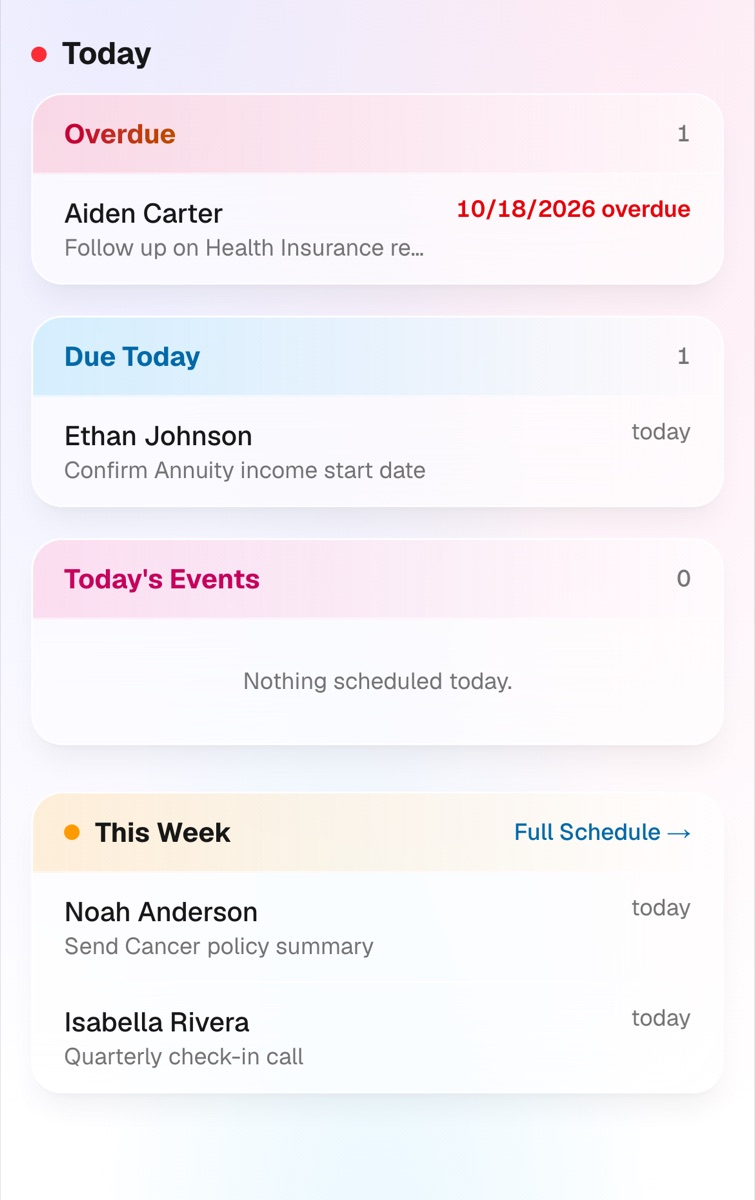
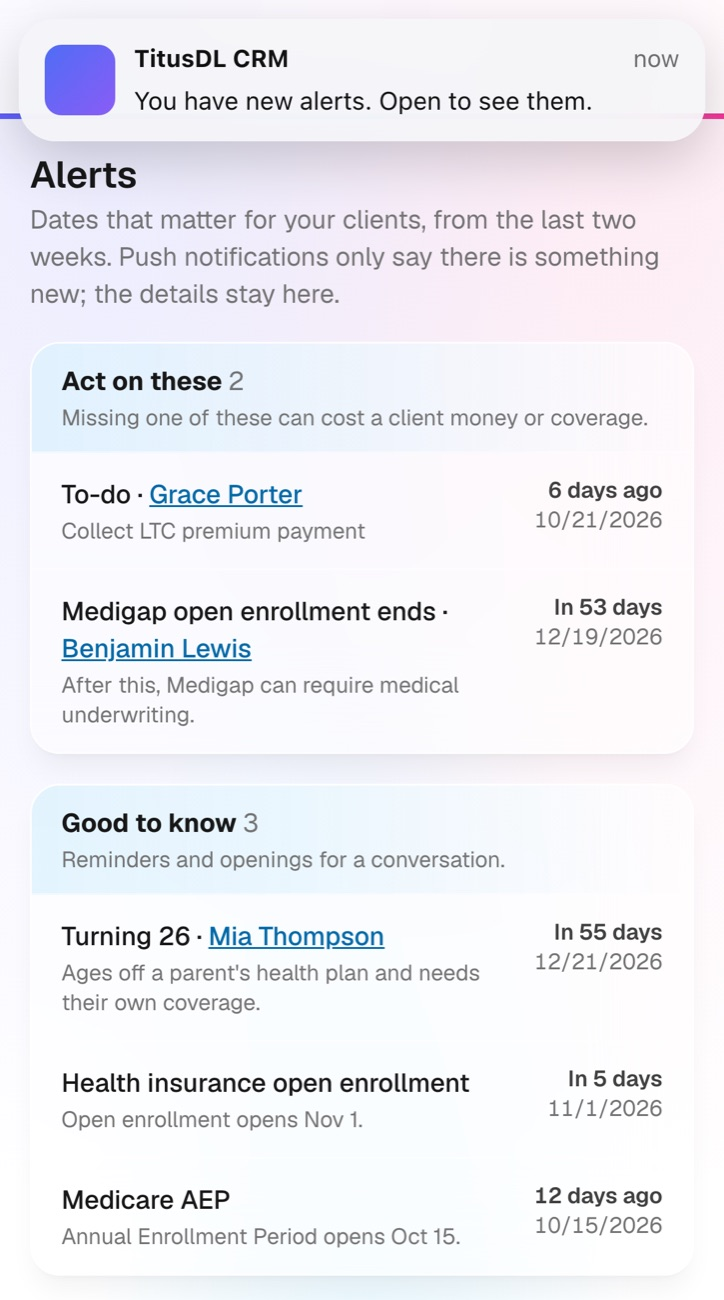
Billing starts at the first issued policy or day 90; alerts are Pro; tax by state; the phone shows the push
- $0 until the first issued policy, capped at 90 days after joining,
  everywhere the offer appears (banner, hero, cards, FAQ, closing panel).
- Early-access price lock is 12 months from the day billing starts.
- Standard has no alerts: dates sit on the calendar and the to-do list.
  Alerts and push are Pro, and the comparison table says so.
- Premium: upload an application and the client, policy and dates update
  automatically. Still Coming soon.
- Sales tax depends on the state (and city). California starts 2027.
- New FAQ: paying yearly, 12 months for the price of 10, offered when
  billing starts.
- Hero phone: the English edition's Alerts screen (sample clients, names
  shown in English) under the push exactly as sw.js words it.

diff --git a/index.html b/index.html
@@ -4,7 +4,7 @@
 <meta charset="UTF-8" />
 <meta name="viewport" content="width=device-width, initial-scale=1.0" />
 <title>TitusDL CRM, the CRM for independent insurance agents</title>
-<meta name="description" content="TitusDL CRM alerts you before the dates that matter: clients turning 65, Medigap open enrollment, RMDs, term life ending, renewals and birthdays. HIPAA BAA included. Pay $0 until your first issued policy." />
+<meta name="description" content="TitusDL CRM alerts you before the dates that matter: clients turning 65, Medigap open enrollment, RMDs, term life ending, renewals and birthdays. HIPAA BAA included. Pay $0 until your first issued policy, for up to 90 days." />
 <meta property="og:title" content="TitusDL CRM, the CRM for independent insurance agents" />
 <meta property="og:description" content="Never miss a renewal. Never lose a family record. One CRM built around how insurance agents actually work." />
 <meta property="og:image" content="https://titusdl.com/assets/og-image.png" />
@@ -486,7 +486,7 @@
   .hero-inner.stacked{grid-template-columns:1fr; text-align:center; gap:48px}
   .hero-inner.stacked .lede,.hero-inner.stacked .tag-row{margin-left:auto; margin-right:auto}
   .hero-inner.stacked .ctas{justify-content:center}
-  .hero-shots{position:relative; max-width:1000px; margin:0 auto; padding-right:120px}
+  .hero-shots{position:relative; max-width:1000px; margin:0 auto; padding-right:120px; padding-top:110px}
   .hero-shots .shot-phone{
     position:absolute; right:0; bottom:-36px; width:210px;
     border-radius:26px; border:6px solid #14161f; overflow:hidden; box-shadow:var(--shadow-lift);
@@ -494,7 +494,7 @@
   }
   .shot-phone img{width:100%; height:auto}
   @media (max-width:760px){
-    .hero-shots{padding-right:0}
+    .hero-shots{padding-right:0; padding-top:0}
     .hero-shots .shot-phone{position:relative; width:46%; margin:-40px 4% 0 auto; bottom:auto}
   }
   .shot-caption{font-size:0.8rem; color:var(--ink-faint); margin-top:52px; text-align:center}
@@ -538,7 +538,7 @@
 
 <a href="#pricing" class="promo-bar">
   <span class="promo-emoji" aria-hidden="true">🎉</span>
-  Early access is open: <strong>$0 until your first issued policy</strong> and <strong class="promo-red">we import your book free</strong>
+  Early access is open: <strong>$0 until your first issued policy</strong> (up to 90 days) and <strong class="promo-red">we import your book free</strong>
   <span class="promo-arrow" aria-hidden="true">→</span>
 </a>
 
@@ -588,7 +588,7 @@
             <a href="mailto:info@titusdl.com" class="btn btn-primary js-book">Book a 15-min demo</a>
             <a href="mailto:info@titusdl.com" class="btn btn-ghost glass js-start">Join early access</a>
           </div>
-          <p class="cta-note">Pay $0 until you write your first policy in it. We import your current book for you.</p>
+          <p class="cta-note">Pay $0 until your first issued policy, for up to 90 days. We import your current book for you.</p>
         </div>
 
         <div class="hero-visual">
@@ -599,11 +599,11 @@
                    alt="The CRM's Today screen: an overdue health-insurance renewal follow-up, an annuity task due today, and this week's follow-ups" />
             </div>
             <div class="shot-phone">
-              <img src="assets/product/mobile.jpg" width="755" height="1200"
-                   alt="The same Today screen on a phone" />
+              <img src="assets/product/mobile.jpg" width="724" height="1300"
+                   alt="A push notification reading 'You have new alerts. Open to see them.' over the Alerts screen: a Medigap open enrollment ending and a client turning 26" />
             </div>
           </div>
-          <p class="shot-caption">The real product. Every client shown is sample data.</p>
+          <p class="shot-caption">The real product with sample clients. On the phone: the Alerts screen, and the push exactly as it appears.</p>
         </div>
       </div>
     </div>
@@ -710,7 +710,7 @@
       <div class="section-head center">
         <span class="eyebrow">Alerts that know insurance</span>
         <h2>It tracks the dates a spreadsheet can't</h2>
-        <p>Each alert is worked out from what's already on file and arrives ahead of the date, on your Alerts screen and as a push to your phone.</p>
+        <p>Each alert is worked out from what's already on file and arrives ahead of the date, on your Alerts screen and as a push to your phone. Alerts and push come with Pro.</p>
       </div>
       <div class="alert-grid">
         <div class="alert-card glass"><span class="alert-when">3 months ahead</span><h3>Turning 65</h3><p>Start the Medicare conversation before another agent does.</p></div>
@@ -811,7 +811,7 @@
             <tr>
               <td>Know who turns 65 soon</td>
               <td class="no">Work it out by hand</td>
-              <td class="yes our-col">Alert 3 months ahead</td>
+              <td class="yes our-col">Alert 3 months ahead (Pro)</td>
             </tr>
             <tr>
               <td>Catch a renewal in time</td>
@@ -826,7 +826,7 @@
             <tr>
               <td>Hear about a date before it passes</td>
               <td class="no">Only if you open the file</td>
-              <td class="yes our-col">Push alert on your phone</td>
+              <td class="yes our-col">Push alert on your phone (Pro)</td>
             </tr>
             <tr>
               <td>Keep client data private</td>
@@ -920,6 +920,7 @@
       <div class="section-head center">
         <span class="eyebrow">Early-access pricing</span>
         <h2>Pay nothing until your first policy is issued</h2>
+        <p>Billing starts when your first new policy is issued or 90 days after you join, whichever comes first.</p>
       </div>
       <p class="pricing-lede">Standard: <strong>you have to remember.</strong> Pro: <strong>it reaches out first.</strong> Premium: <strong>it fills itself in.</strong></p>
       <div class="pricing-grid">
@@ -928,13 +929,14 @@
           <span class="launch-ribbon">Launch special</span>
           <div class="price-was"><s aria-label="Regular price $49.99">$49.99</s><span class="price-save">Save 20%</span></div>
           <div class="amount sale">$39.99 <span>/ user / month</span></div>
-          <p class="price-ends">$0 until your first issued policy · Join by Dec 31, 2026<span class="js-days-left"></span></p>
+          <p class="price-ends">$0 until your first issued policy (up to 90 days) · Join by Dec 31, 2026<span class="js-days-left"></span></p>
           <ul>
             <li><span class="check" aria-hidden="true">✓</span> All 8 product lines</li>
             <li><span class="check" aria-hidden="true">✓</span> Family & joint policy linking</li>
-            <li><span class="check" aria-hidden="true">✓</span> Renewal, RMD & Medicare-65 dates, automatic</li>
-            <li><span class="check" aria-hidden="true">✓</span> Recurring to-dos</li>
+            <li><span class="check" aria-hidden="true">✓</span> Renewal, RMD & Medicare-65 dates on your calendar</li>
+            <li><span class="check" aria-hidden="true">✓</span> Recurring to-do list</li>
             <li><span class="check" aria-hidden="true">✓</span> 2-step sign-in + access log</li>
+            <li><span class="check" aria-hidden="true">✓</span> HIPAA BAA included</li>
           </ul>
           <a href="mailto:info@titusdl.com" class="btn btn-ghost js-start" data-plan="Standard">Join early access</a>
         </div>
@@ -943,7 +945,7 @@
           <span class="launch-ribbon">Launch special</span>
           <div class="price-was"><s aria-label="Regular price $99.99">$99.99</s><span class="price-save">Save 40%</span></div>
           <div class="amount sale">$59.99 <span>/ user / month</span></div>
-          <p class="price-ends">$0 until your first issued policy · Join by Dec 31, 2026<span class="js-days-left"></span></p>
+          <p class="price-ends">$0 until your first issued policy (up to 90 days) · Join by Dec 31, 2026<span class="js-days-left"></span></p>
           <p class="one-line-roi">Save one or two renewals a year and Pro has paid for itself.</p>
           <ul>
             <li><span class="check" aria-hidden="true">✓</span> Everything in Standard</li>
@@ -960,21 +962,21 @@
           <div class="price-was"><s aria-label="Regular price $150">$150</s><span class="price-save">Save 33%</span></div>
           <div class="amount sale">$99.99 <span>/ user / month</span></div>
           <p class="price-ends"><strong>Early members keep $99.99</strong> for as long as they stay subscribed. After launch, new members pay $150.</p>
-          <p class="one-line-roi">Upload the application. The client and policy are in your CRM.</p>
+          <p class="one-line-roi">Upload the application. Your CRM updates itself.</p>
           <ul>
             <li><span class="check" aria-hidden="true">✓</span> Everything in Pro</li>
-            <li><span class="check" aria-hidden="true">✓</span> Application upload: client & policy filled in for you</li>
+            <li><span class="check" aria-hidden="true">✓</span> Upload an application: the client, the policy and its dates update automatically</li>
             <li><span class="check" aria-hidden="true">✓</span> AI features, as each one ships</li>
           </ul>
           <a href="mailto:info@titusdl.com" class="btn btn-gold js-waitlist">Join the Premium waitlist</a>
         </div>
       </div>
-      <p class="lock-note">Agents who join early access by December 31, 2026 keep their launch price for as long as they stay subscribed.</p>
+      <p class="lock-note">Agents who join early access by December 31, 2026 keep their launch price for 12 months from the day billing starts.</p>
       <p class="price-fineprint">Prices in USD, before sales tax. Policies you bring in with your imported book don't start billing.</p>
       <div class="price-2027 glass">
         <span class="eyebrow">From January 1, 2027</span>
         <h3>Regular prices, or <span class="save">2 months free</span> when you pay for the year</h3>
-        <p>Agents who join after December 31, 2026 pay the regular monthly price, or 12 months for the price of 10 when they pay for the year up front. Billing still starts at their first issued policy.</p>
+        <p>Agents who join after December 31, 2026 pay the regular monthly price, or 12 months for the price of 10 when they pay for the year up front. Billing still starts at their first issued policy, or on day 90.</p>
         <table>
           <thead>
             <tr><th>Plan</th><th>Monthly</th><th>Yearly, paid up front</th></tr>
@@ -985,9 +987,9 @@
             <tr><td>Premium</td><td>$150 / mo</td><td><strong>$1,500 / yr</strong><small>2 months free</small></td></tr>
           </tbody>
         </table>
-        <p class="tax-note"><strong>Sales tax from 2027:</strong> starting January 1, 2027, California charges sales tax on software
-          subscriptions (SB 122). If your business is in California, sales tax for your area is added to each bill from then on.
-          Prices above don't include it.</p>
+        <p class="tax-note"><strong>Sales tax depends on your state.</strong> Some states tax software subscriptions and some don't.
+          Where yours does, we add the state and local sales tax for your business address to each bill. California starts
+          on January 1, 2027 (SB 122). Prices above don't include tax.</p>
       </div>
       <p class="custom-note glass">
         Need custom fields, a workflow change, or an integration? <a href="mailto:info@titusdl.com">Tell us</a>. We build what your team actually needs.
@@ -1009,8 +1011,13 @@
         </details>
         <details class="faq-item glass">
           <summary>When do I start paying?<span class="chev" aria-hidden="true">▾</span></summary>
-          <p>When the first new policy you write after joining is marked issued in the CRM. Until then you pay $0.
-            The policies in the book you import don't count.</p>
+          <p>On whichever comes first: the first new policy you write after joining is marked issued in the CRM, or
+            90 days after you join. Until then you pay $0. The policies in the book you import don't count.</p>
+        </details>
+        <details class="faq-item glass">
+          <summary>Can I pay yearly?<span class="chev" aria-hidden="true">▾</span></summary>
+          <p>Yes. Paying for a year up front gets you 12 months for the price of 10, at the price you're on. We'll
+            offer it when your billing starts.</p>
         </details>
         <details class="faq-item glass">
           <summary>Do you sign a BAA?<span class="chev" aria-hidden="true">▾</span></summary>
@@ -1034,8 +1041,9 @@
         </details>
         <details class="faq-item glass">
           <summary>Do I pay sales tax?<span class="chev" aria-hidden="true">▾</span></summary>
-          <p>Not in 2026. Starting January 1, 2027, California charges sales tax on software subscriptions,
-            so California customers will see their local sales tax added to each bill. Our listed prices don't include tax.</p>
+          <p>It depends on your state. Some states tax software subscriptions and some don't. Where yours does, we add
+            the state and local sales tax for your business address to each bill. California starts on January 1, 2027.
+            Listed prices don't include tax.</p>
         </details>
         <details class="faq-item glass">
           <summary>Does it work on mobile and tablet?<span class="chev" aria-hidden="true">▾</span></summary>
@@ -1050,7 +1058,7 @@
     <div class="container">
       <div class="contact-panel">
         <h2>See your own book in it, in 15 minutes.</h2>
-        <p>Book a quick demo. If it fits, we import your book and you pay nothing until your first new policy is issued.</p>
+        <p>Book a quick demo. If it fits, we import your book and you pay nothing until your first new policy is issued, for up to 90 days.</p>
         <a href="mailto:info@titusdl.com" class="btn btn-primary js-book">Book a 15-min demo</a>
       </div>
     </div>
